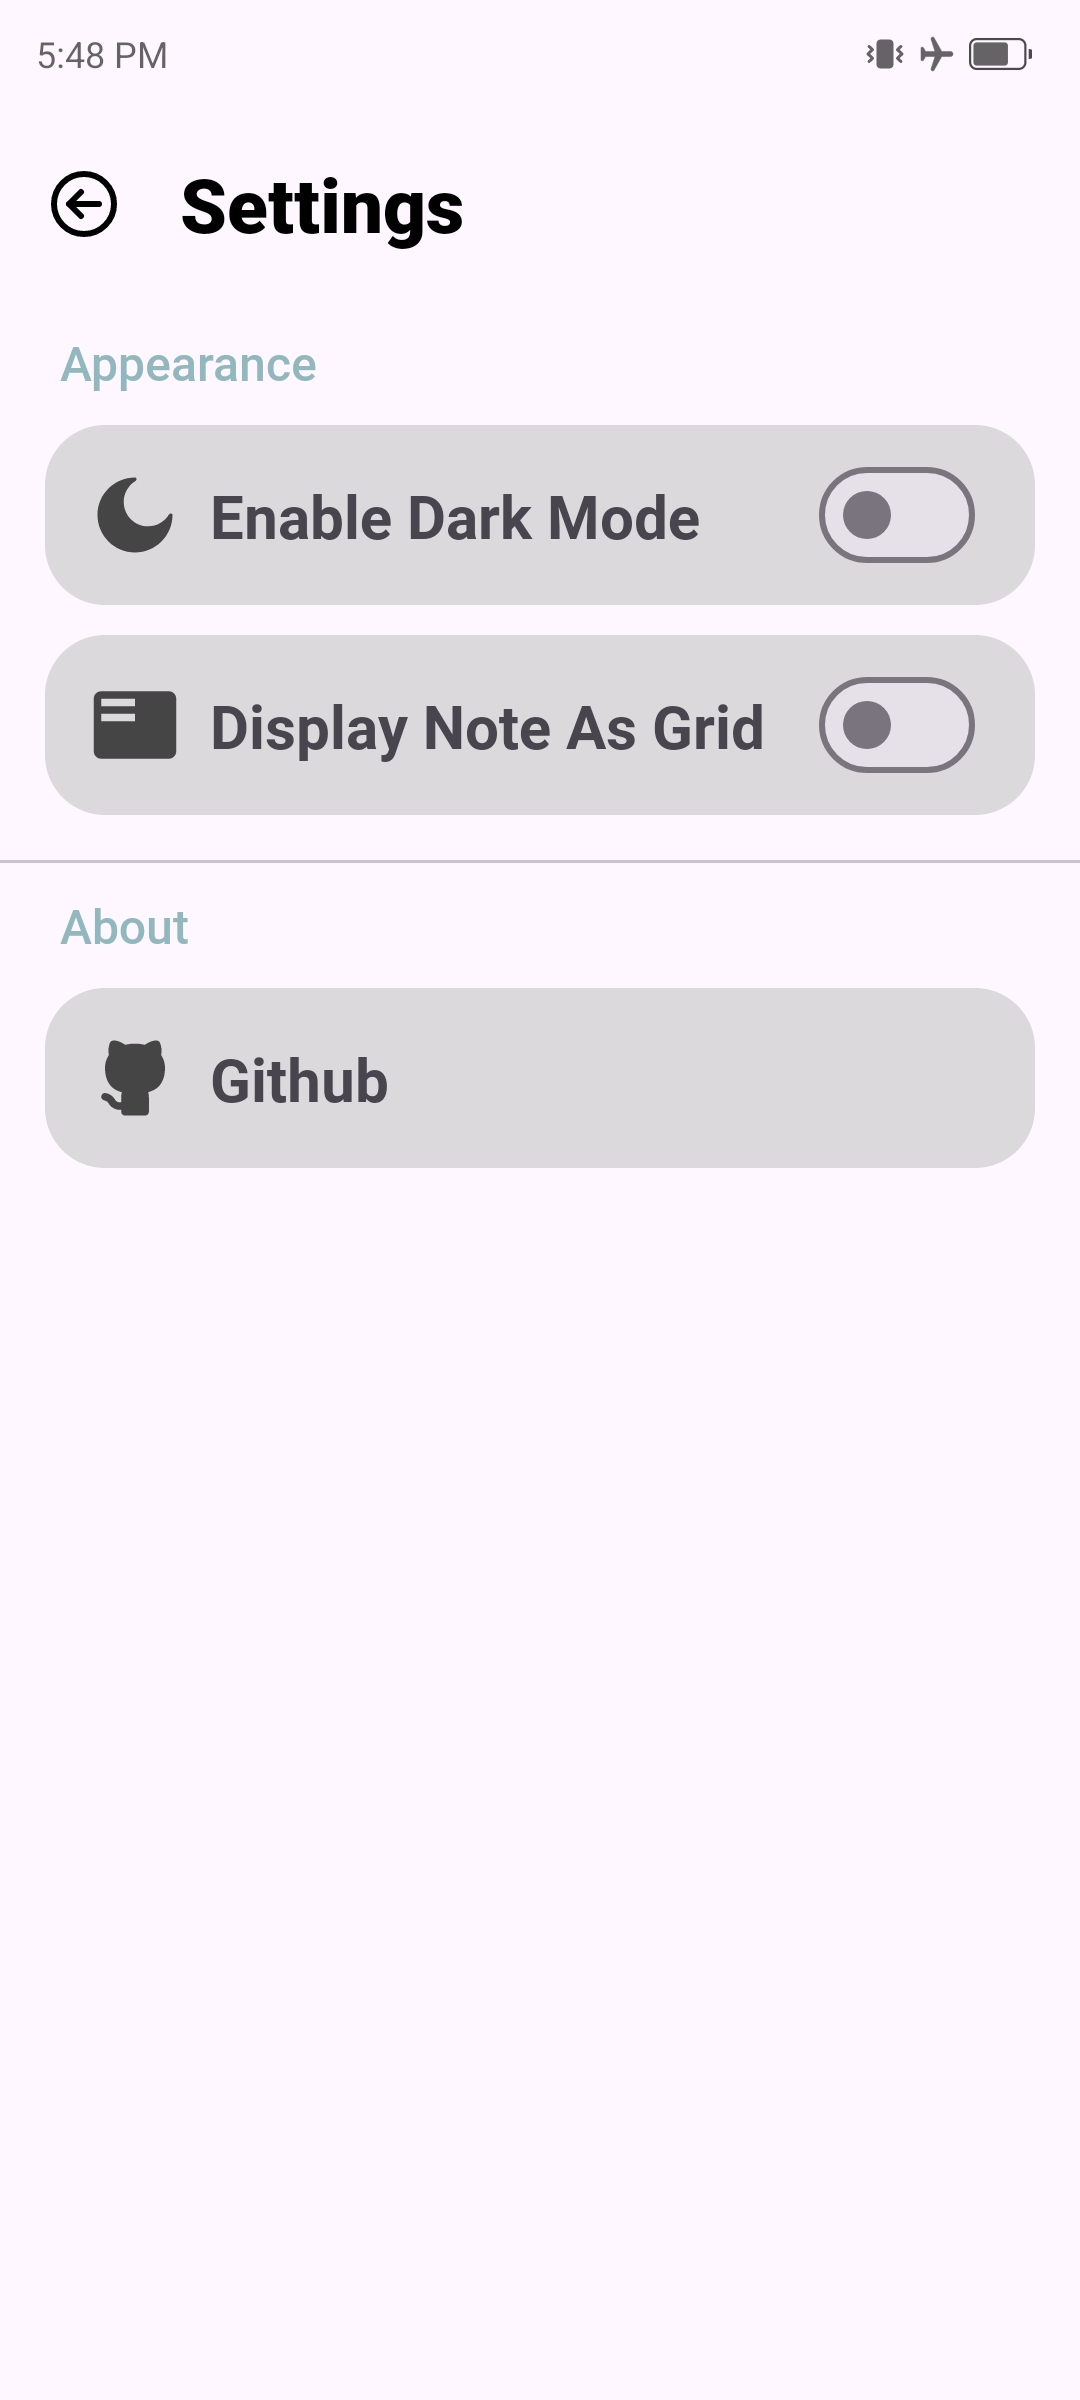
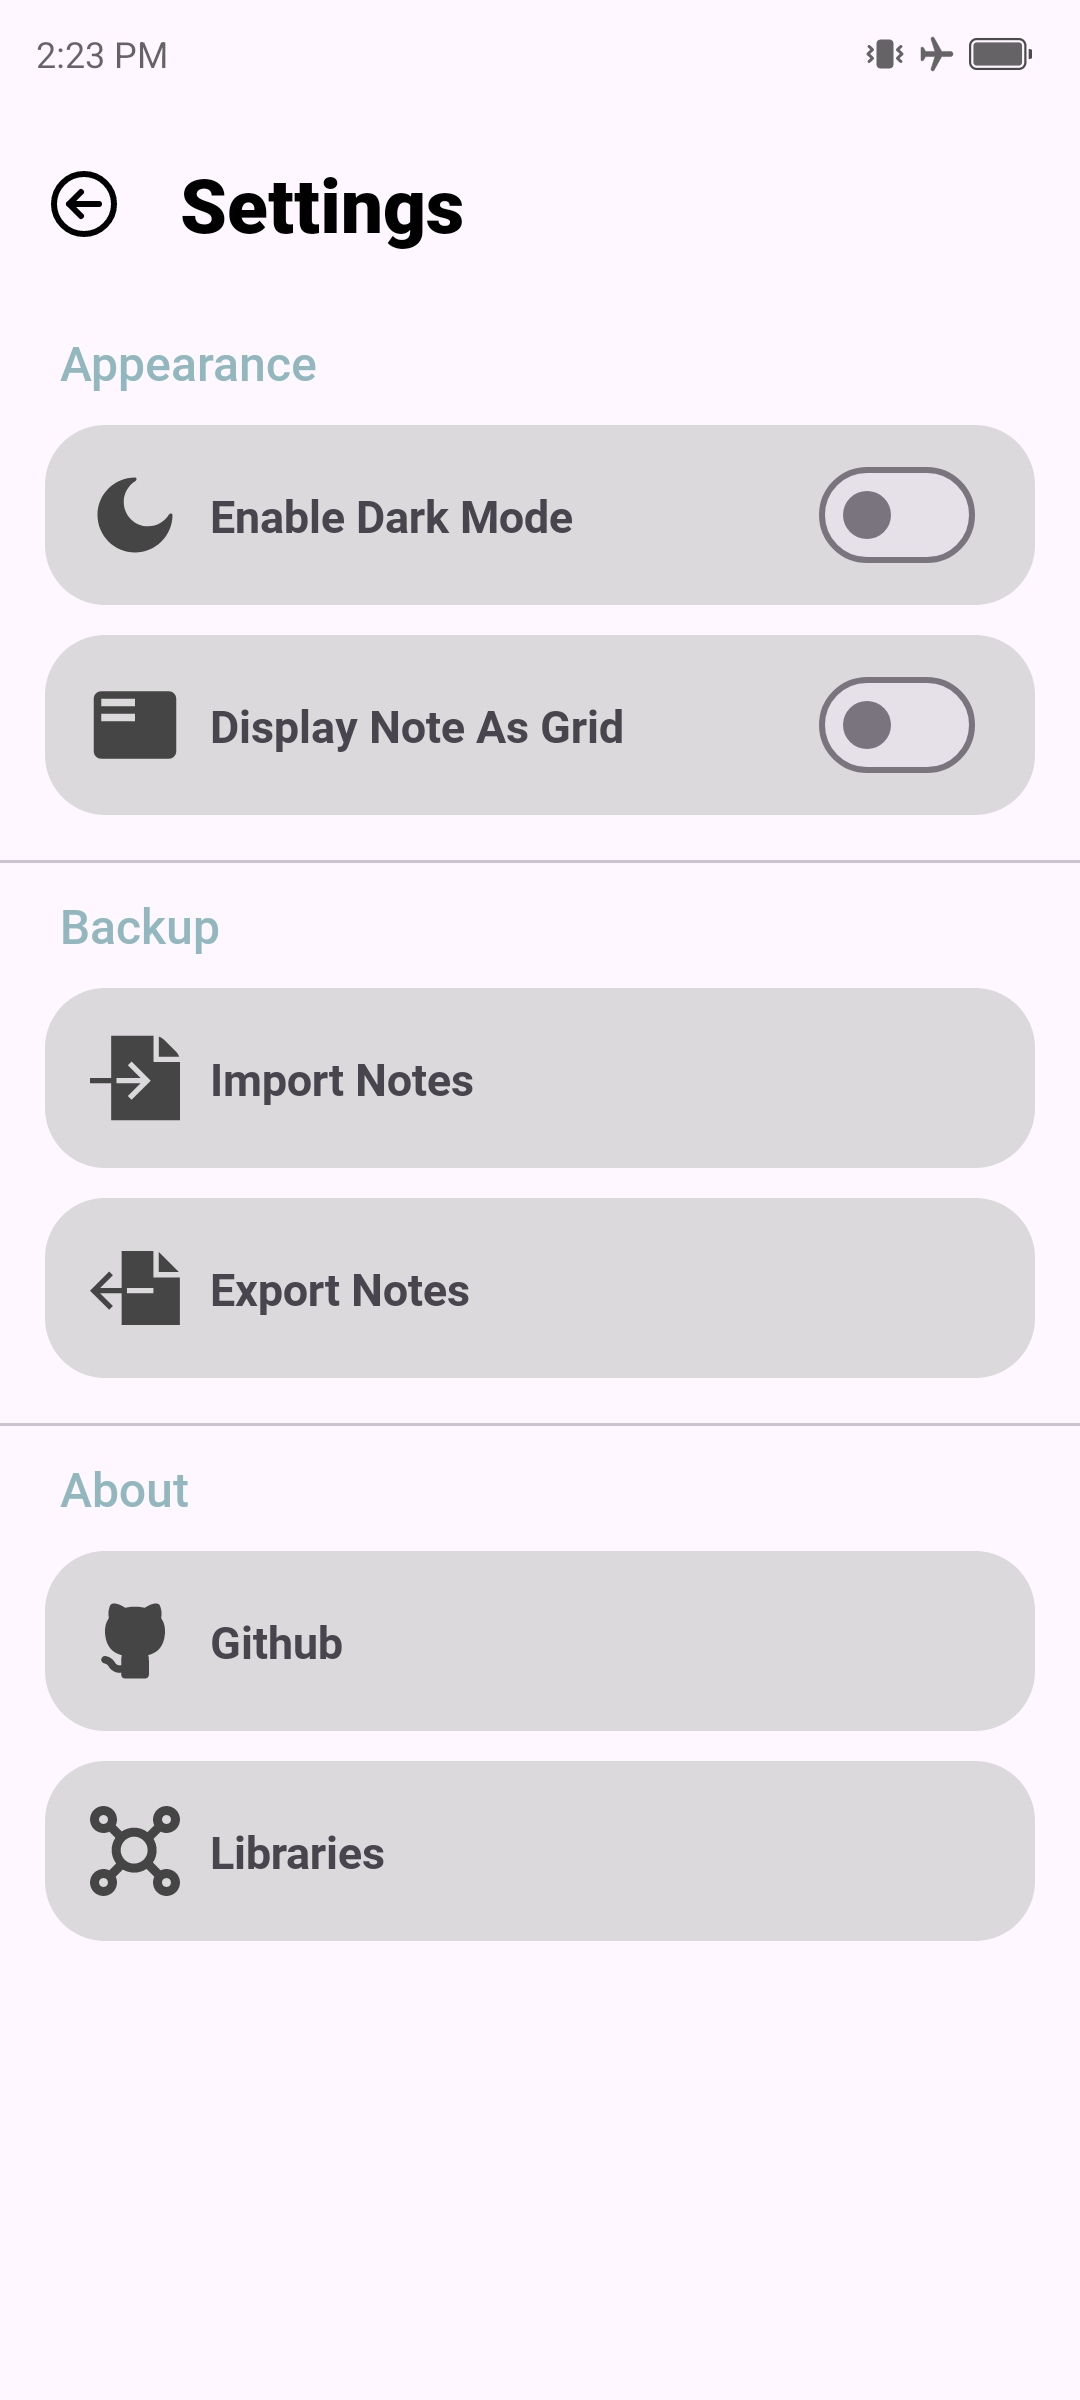
Update: Readme and screenshots

diff --git a/README.md b/README.md
@@ -10,6 +10,8 @@ MindBin is my first take on making a simple android application.
 * Delete Notes
 * Archive Notes
 * Dark Mode
+* Export Notes
+* Import Notes
 
 ## Screenshots
   
